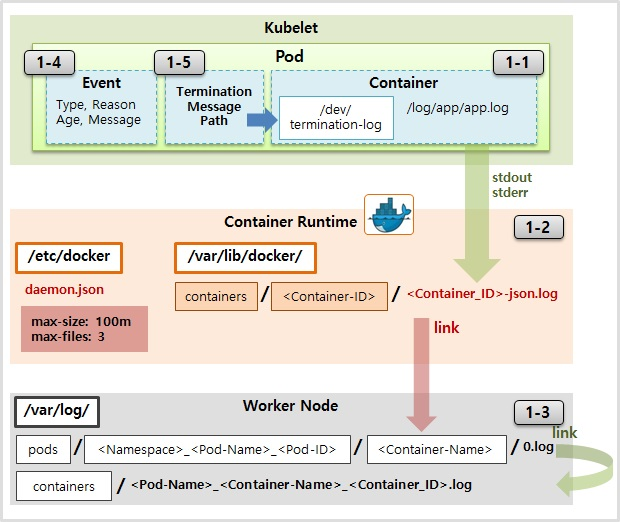
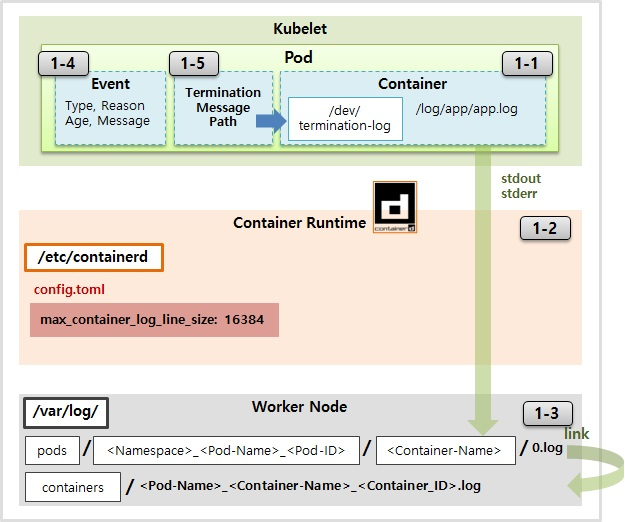
ㅁ

Changed region(s): [[0.0, 0.0, 1.0, 1.0], [0.3677, 0.7663, 0.5516, 0.7969]]

diff --git a/k8s/09-intermediate-architecture/logging/index.html b/k8s/09-intermediate-architecture/logging/index.html
@@ -30,7 +30,7 @@
 <meta itemprop="description" content="Promtail, Loki, Grafana
 "><meta itemprop="datePublished" content="2021-08-02T00:00:00+00:00" />
 <meta itemprop="dateModified" content="2021-08-02T00:00:00+00:00" />
-<meta itemprop="wordCount" content="136">
+<meta itemprop="wordCount" content="144">
 <meta itemprop="keywords" content="" /><meta name="twitter:card" content="summary"/>
 <meta name="twitter:title" content="Logging/Monitoring Architecture"/>
 <meta name="twitter:description" content="Promtail, Loki, Grafana
@@ -1692,6 +1692,16 @@ j=d.createElement(s),dl=l!='dataLayer'?'&l='+l:'';j.async=true;j.src=
        class="mt-3 mb-3 border border-info rounded" />
 </figure>
 <br/>
+
+
+<div class="alert alert-warning" role="alert">
+<h4 class="alert-heading">안내사항</h4>
+
+    쿠버네티스 설치가 1.27로 변경되면서 Runtime도 Docker에서 Containerd로 변경이 되었어요
+그렇기 때문에 강의 내용과는 달리 실습 내용은 Containerd 기준으로 수정 되었습니다.
+
+</div>
+
 <br/>
 <h2 id="1-basic-logging-construction">1. Basic Logging Construction</h2>
 <hr>
@@ -1733,15 +1743,10 @@ curl &lt;pod-ip&gt;:8080/version
 <div class="highlight"><pre style="background-color:#f8f8f8;-moz-tab-size:4;-o-tab-size:4;tab-size:4"><code class="language-sh" data-lang="sh">kubectl logs &lt;pod-name&gt;
 kubectl logs &lt;pod-name&gt; --tail <span style="color:#0000cf;font-weight:bold">10</span> --follow
 </code></pre></div><br/>
-<p>Docker Log Driver 설정 확인</p>
-<div class="highlight"><pre style="background-color:#f8f8f8;-moz-tab-size:4;-o-tab-size:4;tab-size:4"><code class="language-sh" data-lang="sh">cat /etc/docker/daemon.json
+<p>Containerd Log 설정 확인</p>
+<div class="highlight"><pre style="background-color:#f8f8f8;-moz-tab-size:4;-o-tab-size:4;tab-size:4"><code class="language-sh" data-lang="sh">cat /etc/containerd/config.toml
 </code></pre></div><br/>
-<p>Docker Container 로그 파일 확인</p>
-<div class="highlight"><pre style="background-color:#f8f8f8;-moz-tab-size:4;-o-tab-size:4;tab-size:4"><code class="language-sh" data-lang="sh"><span style="color:#204a87">cd</span>  /var/lib/docker/containers
-docker ps
-<span style="color:#204a87">cd</span> &lt;container-id&gt;
-ls
-</code></pre></div><br/>
+<br/>
 <h3 id="1-3-node1에서-log-link-확인">1-3) Node1에서 Log Link 확인</h3>
 <div class="highlight"><pre style="background-color:#f8f8f8;-moz-tab-size:4;-o-tab-size:4;tab-size:4"><code class="language-sh" data-lang="sh"><span style="color:#204a87">cd</span> /var/log/pods
 <span style="color:#204a87">cd</span> &lt;Namespace&gt;_&lt;pod-name&gt;_&lt;pod-id&gt;
